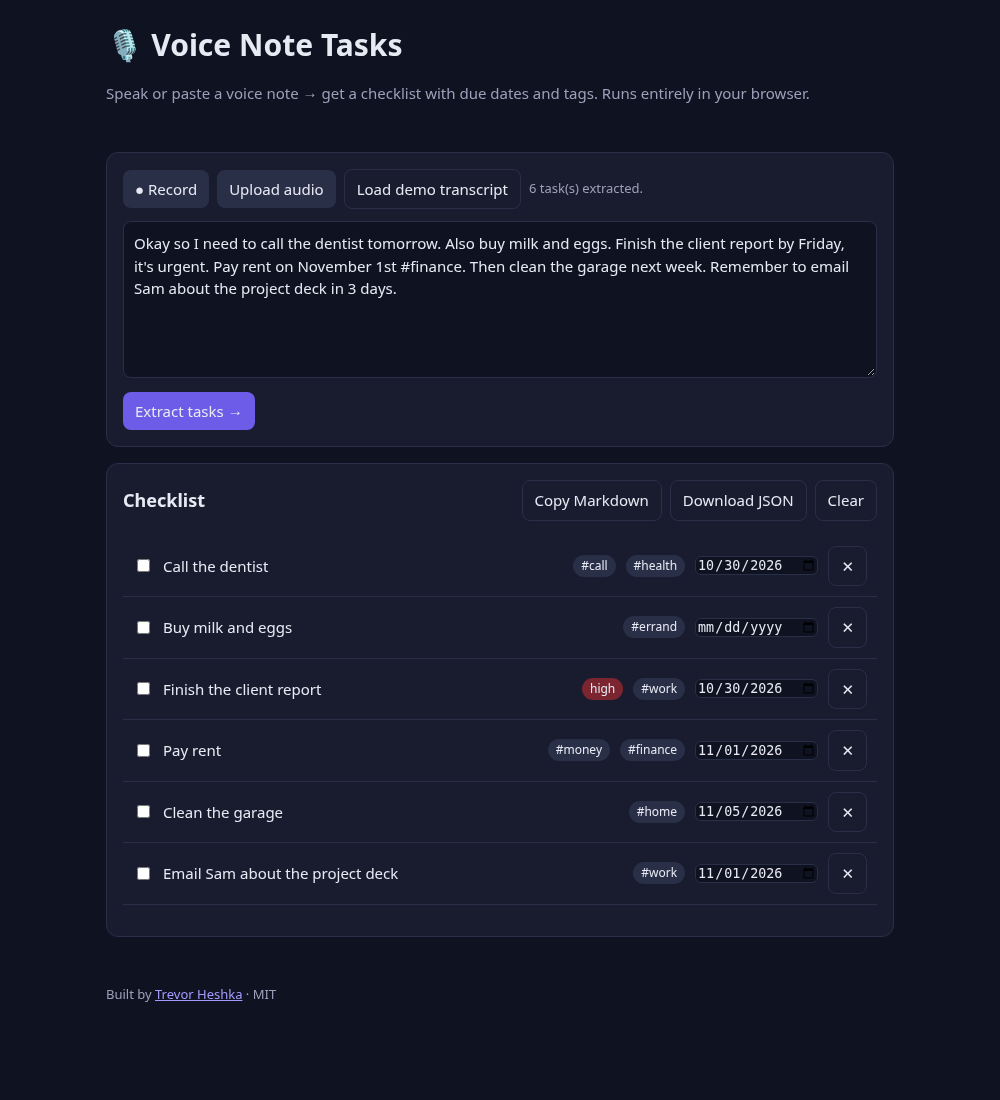
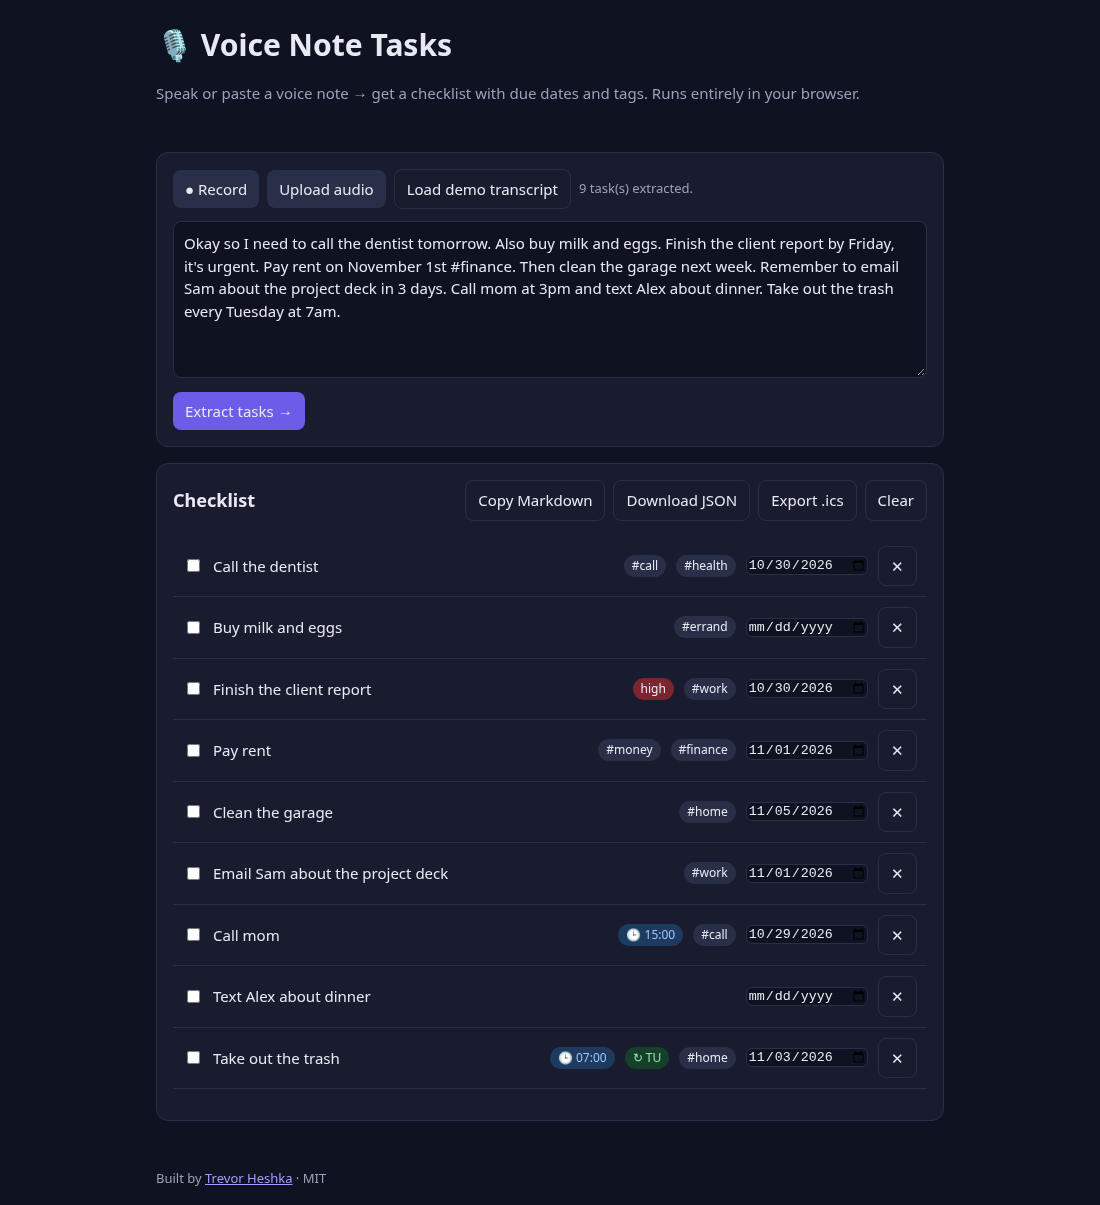
feat: Whisper upload, richer parsing, .ics export [skip ci]

diff --git a/parser.js b/parser.js
@@ -32,26 +32,72 @@
     return { due: null, match: null };
   }
 
+  const DAY_ABBR = ['SU','MO','TU','WE','TH','FR','SA'];
+  // Clock time: "at 3pm", "at 3:30 pm", "at 15:00", "at noon", "3pm". Returns "HH:MM".
+  function parseTime(text) {
+    let m;
+    if ((m = text.match(/\b(?:at )?(noon|midday|midnight)\b/i)))
+      return { time: /midnight/i.test(m[1]) ? '00:00' : '12:00', match: new RegExp(`\\b(at )?${m[1]}\\b`, 'i') };
+    if ((m = text.match(/\b(at |by )?(\d{1,2})(?::(\d{2}))?\s*([ap])\.?m\.?(?=\W|$)/i))) {
+      let h = +m[2] % 12; if (/p/i.test(m[4])) h += 12;
+      if (+m[2] > 12 || +m[3] > 59) return { time: null, match: null };
+      return { time: `${String(h).padStart(2,'0')}:${m[3] || '00'}`, match: m[0] };
+    }
+    if ((m = text.match(/\bat (\d{1,2}):(\d{2})\b/i)) && +m[1] < 24 && +m[2] < 60)
+      return { time: `${m[1].padStart(2,'0')}:${m[2]}`, match: m[0] };
+    return { time: null, match: null };
+  }
+
+  // Weekly recurrence: "every Monday", "every Tuesday and Thursday", "on Mondays", "weekly", "every week".
+  function parseRecurrence(text, now) {
+    const t = text.toLowerCase(); let m;
+    const dayRe = DAYS.join('|');
+    if ((m = t.match(new RegExp(`\\b(?:every|each) ((?:(?:${dayRe})(?:,? (?:and )?)?)+)`)))) {
+      const days = [...new Set(m[1].match(new RegExp(dayRe, 'g')))];
+      return { recurrence: { freq: 'WEEKLY', byday: days.map(d => DAY_ABBR[DAYS.indexOf(d)]) },
+        match: new RegExp(m[0].trim().replace(/,$/, ''), 'i'), days };
+    }
+    if ((m = t.match(new RegExp(`\\bon (${dayRe})s\\b`))))
+      return { recurrence: { freq: 'WEEKLY', byday: [DAY_ABBR[DAYS.indexOf(m[1])]] }, match: new RegExp(m[0], 'i'), days: [m[1]] };
+    if ((m = t.match(/\b(weekly|every week|once a week)\b/)))
+      return { recurrence: { freq: 'WEEKLY', byday: [DAY_ABBR[now.getDay()]] }, match: new RegExp(`\\b${m[0]}\\b`, 'i'), days: [] };
+    return { recurrence: null, match: null, days: [] };
+  }
+  const nextDay = (name, now) => iso(add(now, (DAYS.indexOf(name) - now.getDay() + 7) % 7));
+
+  // Split "call mom and email Bob" into two tasks, but keep "buy milk and eggs" together:
+  // only split on "and"/"," when the next word is an action verb.
+  const VERBS = 'call|phone|ring|text|email|e-mail|message|buy|get|pick up|drop off|return|pay|book|schedule|send|finish|write|clean|fix|repair|water|walk|feed|take out|do|check|review|submit|order|cancel|renew|wash|go to|visit|meet|remind|prepare|print|sign|update|file|mail|ship|clean up|vacuum|mow|cook';
+  const CLAUSE_SPLIT = new RegExp(`\\s*(?:,\\s*(?:and\\s+)?|\\s+and\\s+)(?=(?:also\\s+|then\\s+)?(?:${VERBS})\\b)`, 'i');
+
   function parseTranscript(text, now = new Date()) {
     const chunks = text
       .replace(/\b(also|and then|then|after that|plus)\b,?/gi, '.')
       .split(/[.;!?\n]+|,\s*(?=(?:i need to|need to|remember to|don't forget to)\b)/i)
+      .flatMap(s => s.split(CLAUSE_SPLIT))
       .map(s => s.trim()).filter(s => s.split(/\s+/).length >= 2);
     return chunks.map((raw, i) => {
       const tags = Object.keys(TAG_RULES).filter(k => TAG_RULES[k].test(raw));
       (raw.match(/#(\w+)/g) || []).forEach(h => tags.push(h.slice(1).toLowerCase()));
       const priority = /\b(urgent|asap|important|critical)\b/i.test(raw) ? 'high' : 'normal';
-      const { due, match } = parseDue(raw, now);
-      let title = raw.replace(match || /^$/, '')
+      const rec = parseRecurrence(raw, now);
+      let rest = raw.replace(rec.match || /^$/, '');
+      const tm = parseTime(rest);
+      rest = rest.replace(tm.match || /^$/, '');
+      let { due, match } = parseDue(rest, now);
+      if (!due && rec.days.length) due = rec.days.map(d => nextDay(d, now)).sort()[0];
+      if (!due && rec.recurrence) due = iso(now);
+      if (!due && tm.time) due = iso(now);
+      let title = rest.replace(match || /^$/, '')
         .replace(/#\w+/g, '')
         .replace(/^((ok(ay)?|so|um+|uh+|well)\b,?\s*)+/i, '')
         .replace(/^(i (need|have|want) to|i've got to|i gotta|need to|remember to|don't forget to|make sure to|i should|we should)\s+/i, '')
         .replace(/,?\s*(it's |this is )?(urgent(ly)?|asap|important)\b,?/gi, '').replace(/\s+,/g, ',')
         .replace(/\s{2,}/g, ' ').replace(/[\s,]+$/,'').trim();
       title = title.charAt(0).toUpperCase() + title.slice(1);
-      return { id: i + 1, title, due, tags: [...new Set(tags)], priority, done: false };
+      return { id: i + 1, title, due, time: tm.time, recurrence: rec.recurrence, tags: [...new Set(tags)], priority, done: false };
     }).filter(t => t.title.length > 1);
   }
-  const api = { parseTranscript, parseDue };
+  const api = { parseTranscript, parseDue, parseTime, parseRecurrence };
   if (typeof module !== 'undefined') module.exports = api; else root.VNT = api;
 })(this);

diff --git a/app.js b/app.js
@@ -1,5 +1,5 @@
 const $ = id => document.getElementById(id);
-const DEMO = "Okay so I need to call the dentist tomorrow. Also buy milk and eggs. Finish the client report by Friday, it's urgent. Pay rent on November 1st #finance. Then clean the garage next week. Remember to email Sam about the project deck in 3 days.";
+const DEMO = "Okay so I need to call the dentist tomorrow. Also buy milk and eggs. Finish the client report by Friday, it's urgent. Pay rent on November 1st #finance. Then clean the garage next week. Remember to email Sam about the project deck in 3 days. Call mom at 3pm and text Alex about dinner. Take out the trash every Tuesday at 7am.";
 let tasks = JSON.parse(localStorage.getItem('vnt-tasks') || '[]');
 const save = () => { localStorage.setItem('vnt-tasks', JSON.stringify(tasks)); render(); };
 const status = s => $('status').textContent = s;
@@ -10,6 +10,8 @@ function render() {
     const li = document.createElement('li'); if (t.done) li.className = 'done';
     li.innerHTML = `<input type="checkbox" ${t.done ? 'checked' : ''}><span class="t" contenteditable></span>
       ${t.priority === 'high' ? '<span class="chip high">high</span>' : ''}
+      ${t.time ? `<span class="chip time">🕒 ${t.time}</span>` : ''}
+      ${t.recurrence ? `<span class="chip rec" title="Repeats weekly">↻ ${(t.recurrence.byday || []).join('/') || 'weekly'}</span>` : ''}
       ${t.tags.map(g => `<span class="chip">#${g}</span>`).join('')}
       <input type="date" value="${t.due || ''}"><button class="ghost" title="Delete">✕</button>`;
     li.querySelector('.t').textContent = t.title;
@@ -42,12 +44,28 @@ $('rec').onclick = async () => {
   rec.start(); $('rec').classList.add('on'); $('rec').textContent = '■ Stop'; status('Listening…');
 };
 
-// Uploaded audio: browsers can't transcribe a file offline without a model, so play it
-// and let the user dictate/paste. (See README for an optional Whisper route.)
+// Uploaded audio: play it; optionally transcribe offline with Whisper (lazy-loaded, see whisper.js).
+let upload = null;
 $('file').onchange = e => {
-  const f = e.target.files[0]; if (!f) return;
-  $('player').src = URL.createObjectURL(f); $('player').hidden = false;
-  status(`Loaded ${f.name}. Play it and press Record (speaker → mic), or paste its transcript.`);
+  const f = e.target.files[0]; if (!f) return; upload = f;
+  $('player').src = URL.createObjectURL(f); $('player').hidden = false; $('whisper').hidden = false;
+  status(`Loaded ${f.name}. Click ✨ Transcribe with Whisper (one-time ~40 MB download), or paste its transcript.`);
+};
+$('whisper').onclick = async () => {
+  if (!upload) return;
+  const btn = $('whisper'), box = $('wbox'), prog = $('wprog'), txt = $('wtext');
+  btn.disabled = true; box.hidden = false; prog.removeAttribute('value');
+  const onProgress = p => { txt.textContent = p.text; if (p.pct != null) prog.value = p.pct; else prog.removeAttribute('value'); };
+  try {
+    const mod = await import('./whisper.js');
+    const text = await mod.transcribe(upload, onProgress);
+    $('transcript').value = ($('transcript').value ? $('transcript').value + ' ' : '') + text;
+    status(text ? 'Whisper transcript ready — review it, then Extract tasks.' : 'Whisper heard nothing in that file.');
+    box.hidden = true;
+  } catch (err) {
+    txt.textContent = 'Whisper unavailable (offline or blocked?): ' + (err.message || err) + ' — paste the transcript instead.';
+    prog.value = 0;
+  } finally { btn.disabled = false; }
 };
 $('demo').onclick = () => { $('transcript').value = DEMO; status('Demo transcript loaded.'); };
 $('parse').onclick = () => {
@@ -58,8 +76,14 @@ $('parse').onclick = () => {
 };
 $('clear').onclick = () => { tasks = []; save(); };
 $('copy').onclick = () => {
-  const md = tasks.map(t => `- [${t.done ? 'x' : ' '}] ${t.title}${t.due ? ` (due ${t.due})` : ''}${t.tags.map(g => ' #' + g).join('')}`).join('\n');
+  const md = tasks.map(t => `- [${t.done ? 'x' : ' '}] ${t.title}${t.due ? ` (due ${t.due}${t.time ? ' ' + t.time : ''})` : ''}${t.recurrence ? ' (weekly)' : ''}${t.tags.map(g => ' #' + g).join('')}`).join('\n');
   navigator.clipboard.writeText(md).then(() => status('Copied Markdown.'));
+};
+$('ics').onclick = () => {
+  const n = tasks.filter(t => t.due).length;
+  if (!n) { status('No tasks with a due date to export.'); return; }
+  const a = document.createElement('a'); a.href = URL.createObjectURL(new Blob([VNTICS.toICS(tasks)], { type: 'text/calendar' }));
+  a.download = 'tasks.ics'; a.click(); status(`Exported ${n} event(s) to tasks.ics.`);
 };
 $('json').onclick = () => {
   const a = document.createElement('a'); a.href = URL.createObjectURL(new Blob([JSON.stringify(tasks, null, 2)], { type: 'application/json' }));

diff --git a/ics.js b/ics.js
@@ -1,0 +1,37 @@
+// Tasks -> iCalendar (.ics, RFC 5545). Pure function, no deps. Works in browser and Node.
+(function (root) {
+  const esc = s => String(s).replace(/\\/g, '\\\\').replace(/;/g, '\\;').replace(/,/g, '\\,').replace(/\r?\n/g, '\\n');
+  // Fold lines longer than 75 octets (approximated by chars) per RFC 5545 §3.1.
+  const fold = l => { const out = []; while (l.length > 75) { out.push(l.slice(0, 75)); l = ' ' + l.slice(75); } out.push(l); return out.join('\r\n'); };
+  const pad = n => String(n).padStart(2, '0');
+  const stamp = d => `${d.getUTCFullYear()}${pad(d.getUTCMonth()+1)}${pad(d.getUTCDate())}T${pad(d.getUTCHours())}${pad(d.getUTCMinutes())}${pad(d.getUTCSeconds())}Z`;
+  const nextDate = ymd => { const [y, m, d] = ymd.split('-').map(Number); const x = new Date(Date.UTC(y, m - 1, d + 1));
+    return `${x.getUTCFullYear()}${pad(x.getUTCMonth()+1)}${pad(x.getUTCDate())}`; };
+
+  /** Only tasks with a due date become events. Timed tasks are 30-min floating-time events; others are all-day. */
+  function toICS(tasks, { now = new Date(), durationMin = 30, uidDomain = 'voice-note-tasks' } = {}) {
+    const lines = ['BEGIN:VCALENDAR', 'VERSION:2.0', 'PRODID:-//Trevor Heshka//Voice Note Tasks//EN', 'CALSCALE:GREGORIAN'];
+    tasks.filter(t => t.due).forEach(t => {
+      const date = t.due.replace(/-/g, '');
+      lines.push('BEGIN:VEVENT', `UID:${t.id}-${date}-${String(t.title).toLowerCase().replace(/[^a-z0-9]+/g, '-').slice(0, 40)}@${uidDomain}`, `DTSTAMP:${stamp(now)}`);
+      if (t.time) {
+        const [h, m] = t.time.split(':').map(Number); const end = h * 60 + m + durationMin;
+        lines.push(`DTSTART:${date}T${pad(h)}${pad(m)}00`);
+        lines.push(end < 1440 ? `DTEND:${date}T${pad(Math.floor(end / 60))}${pad(end % 60)}00` : `DURATION:PT${durationMin}M`);
+      } else {
+        lines.push(`DTSTART;VALUE=DATE:${date}`, `DTEND;VALUE=DATE:${nextDate(t.due)}`);
+      }
+      if (t.recurrence && t.recurrence.freq === 'WEEKLY')
+        lines.push(`RRULE:FREQ=WEEKLY${t.recurrence.byday && t.recurrence.byday.length ? ';BYDAY=' + t.recurrence.byday.join(',') : ''}`);
+      lines.push(`SUMMARY:${esc(t.title)}`);
+      if (t.tags && t.tags.length) lines.push(`CATEGORIES:${t.tags.map(esc).join(',')}`);
+      if (t.priority === 'high') lines.push('PRIORITY:1');
+      if (t.done) lines.push('STATUS:CANCELLED');
+      lines.push('END:VEVENT');
+    });
+    lines.push('END:VCALENDAR');
+    return lines.map(fold).join('\r\n') + '\r\n';
+  }
+  const api = { toICS };
+  if (typeof module !== 'undefined') module.exports = api; else root.VNTICS = api;
+})(this);

diff --git a/test.js b/test.js
@@ -9,3 +9,33 @@ assert.equal(t[3].due, '2026-11-01'); assert.ok(t[3].tags.includes('finance'));
 console.log('ok');
 assert.equal(t[0].title, 'Call the dentist'); assert.equal(t[2].title, 'Finish the client report');
 assert.equal(parseTranscript('Then clean the garage next week', now)[0].due, '2026-11-05');
+
+// --- multi-clause, time, recurrence ---
+const { parseTime } = require('./parser');
+const mc = parseTranscript('Call mom at 3pm and email Bob about the invoice tomorrow', now);
+assert.equal(mc.length, 2);
+assert.deepEqual([mc[0].title, mc[0].time, mc[0].due], ['Call mom', '15:00', '2026-10-29']);
+assert.deepEqual([mc[1].title, mc[1].due], ['Email Bob about the invoice', '2026-10-30']);
+assert.equal(parseTranscript('Buy milk and eggs', now).length, 1);
+assert.equal(parseTime('at 3:30 pm').time, '15:30'); assert.equal(parseTime('at noon').time, '12:00');
+assert.equal(parseTime('at 12am').time, '00:00'); assert.equal(parseTime('at 17:45').time, '17:45');
+assert.equal(parseTime('buy 3 apples').time, null);
+const rec = parseTranscript('Take out the trash every Tuesday and Friday at 7:30 am', now)[0];
+assert.equal(rec.title, 'Take out the trash'); assert.equal(rec.time, '07:30');
+assert.deepEqual(rec.recurrence, { freq: 'WEEKLY', byday: ['TU', 'FR'] }); assert.equal(rec.due, '2026-10-30');
+const w = parseTranscript('Water the plants on Mondays', now)[0];
+assert.deepEqual(w.recurrence.byday, ['MO']); assert.equal(w.due, '2026-11-02'); assert.equal(w.title, 'Water the plants');
+assert.equal(parseTranscript('Go to the gym weekly', now)[0].recurrence.freq, 'WEEKLY');
+assert.equal(t[1].time, null); assert.equal(t[1].recurrence, null);
+
+// --- .ics export ---
+const { toICS } = require('./ics');
+const ics = toICS([...mc, rec, { id: 9, title: 'No date', due: null, tags: [] }, { ...t[2] }], { now: new Date(Date.UTC(2026, 9, 29, 12)) });
+assert.ok(ics.startsWith('BEGIN:VCALENDAR\r\n') && ics.endsWith('END:VCALENDAR\r\n'));
+assert.equal((ics.match(/BEGIN:VEVENT/g) || []).length, 4);
+assert.ok(ics.includes('DTSTART:20261029T150000\r\nDTEND:20261029T153000'));
+assert.ok(ics.includes('DTSTART;VALUE=DATE:20261030\r\nDTEND;VALUE=DATE:20261031'));
+assert.ok(ics.includes('RRULE:FREQ=WEEKLY;BYDAY=TU,FR'));
+assert.ok(ics.includes('PRIORITY:1')); assert.ok(!ics.includes('No date'));
+assert.ok(toICS([{ id: 1, title: 'a, b; c', due: '2026-10-29', tags: [] }]).includes('SUMMARY:a\\, b\\; c'));
+console.log('all tests ok');

diff --git a/whisper.js b/whisper.js
@@ -1,0 +1,49 @@
+// Optional offline transcription of uploaded audio with Whisper (transformers.js, whisper-tiny.en).
+// Nothing here loads until the user clicks "Transcribe with Whisper": the library (~1 MB) comes from a CDN
+// and the model (~40 MB quantized) is downloaded once and cached by the browser. The rest of the app never needs it.
+const LIB = 'https://cdn.jsdelivr.net/npm/@huggingface/transformers@3';
+const MODEL = 'Xenova/whisper-tiny.en';
+let pipePromise = null;
+
+export function isLoaded() { return pipePromise !== null; }
+
+async function getPipe(onProgress) {
+  if (!pipePromise) {
+    pipePromise = (async () => {
+      onProgress({ stage: 'lib', text: 'Loading transformers.js…' });
+      const { pipeline } = await import(LIB);
+      const files = {};
+      return pipeline('automatic-speech-recognition', MODEL, {
+        dtype: 'q8',
+        progress_callback: p => {
+          if (p.status === 'progress' && p.total) {
+            files[p.file] = [p.loaded, p.total];
+            const [l, t] = Object.values(files).reduce((a, [x, y]) => [a[0] + x, a[1] + y], [0, 0]);
+            onProgress({ stage: 'model', pct: Math.round(100 * l / t), text: `Downloading Whisper model… ${Math.round(100 * l / t)}% (${(l / 1e6).toFixed(1)} / ${(t / 1e6).toFixed(1)} MB)` });
+          }
+        },
+      });
+    })().catch(e => { pipePromise = null; throw e; });
+  }
+  return pipePromise;
+}
+
+// Decode any browser-supported audio file to 16 kHz mono Float32Array (what Whisper expects).
+async function decode(file) {
+  const buf = await file.arrayBuffer();
+  const ctx = new (window.AudioContext || window.webkitAudioContext)({ sampleRate: 16000 });
+  try { const audio = await ctx.decodeAudioData(buf);
+    if (audio.numberOfChannels === 1) return audio.getChannelData(0);
+    const a = audio.getChannelData(0), b = audio.getChannelData(1), out = new Float32Array(a.length);
+    for (let i = 0; i < a.length; i++) out[i] = (a[i] + b[i]) / 2; return out;
+  } finally { ctx.close(); }
+}
+
+export async function transcribe(file, onProgress = () => {}) {
+  const asr = await getPipe(onProgress);
+  onProgress({ stage: 'decode', text: 'Decoding audio…' });
+  const audio = await decode(file);
+  onProgress({ stage: 'run', text: `Transcribing ${(audio.length / 16000).toFixed(0)} s of audio…` });
+  const out = await asr(audio, { chunk_length_s: 30, stride_length_s: 5 });
+  return (out.text || '').trim();
+}

diff --git a/index.html b/index.html
@@ -6,16 +6,18 @@
   <div class="row">
     <button id="rec">● Record</button>
     <label class="btn">Upload audio<input id="file" type="file" accept="audio/*" hidden></label>
+    <button id="whisper" class="ghost" hidden title="Optional: downloads ~40 MB model once, then runs offline in your browser">✨ Transcribe with Whisper</button>
     <button id="demo" class="ghost">Load demo transcript</button>
     <span id="status"></span>
   </div>
   <audio id="player" controls hidden></audio>
+  <div id="wbox" hidden><progress id="wprog" max="100"></progress> <span id="wtext" class="muted"></span></div>
   <textarea id="transcript" rows="6" placeholder="Transcript appears here — or paste one (demo mode, no mic or API key needed)."></textarea>
   <button id="parse" class="primary">Extract tasks →</button>
 </section>
 <section class="card"><div class="row"><h2>Checklist</h2><span class="spacer"></span>
-  <button id="copy" class="ghost">Copy Markdown</button><button id="json" class="ghost">Download JSON</button><button id="clear" class="ghost">Clear</button></div>
+  <button id="copy" class="ghost">Copy Markdown</button><button id="json" class="ghost">Download JSON</button><button id="ics" class="ghost" title="Tasks with a due date become calendar events">Export .ics</button><button id="clear" class="ghost">Clear</button></div>
   <ul id="tasks"></ul><p id="empty" class="muted">No tasks yet.</p></section>
 </main>
 <footer>Built by <a href="https://trevorheshka.com">Trevor Heshka</a> · MIT</footer>
-<script src="parser.js"></script><script src="app.js"></script></body></html>
+<script src="parser.js"></script><script src="ics.js"></script><script src="app.js"></script></body></html>

diff --git a/style.css b/style.css
@@ -9,3 +9,5 @@ audio{width:100%;margin-top:10px}ul{list-style:none;padding:0}li{display:flex;ga
 li.done .t{text-decoration:line-through;color:#9aa0b8}.t{flex:1}.chip{font-size:12px;padding:2px 8px;border-radius:99px;background:#2a2f48}
 .due{background:#1e5f4a}.high{background:#7a2530}input[type=date]{background:#0f1220;color:inherit;border:1px solid #2a2f48;border-radius:6px}
 #status{color:#9aa0b8;font-size:13px}footer{color:#9aa0b8;font-size:13px}a{color:#a29bfe}
+.chip.time{background:#1e3a5f;color:#9cc7ff}.chip.rec{background:#17402b;color:#8ee6b0}
+#wbox:not([hidden]){display:flex;align-items:center;gap:.5rem;margin:.5rem 0}#wbox progress{width:12rem}

diff --git a/README.md b/README.md
@@ -6,17 +6,25 @@ Record (or paste) a voice note → transcript → structured checklist with **du
 
 ## Features
 - **Record** with the browser's Web Speech API (`SpeechRecognition`) — live transcript, plus the audio is kept for playback (MediaRecorder).
-- **Upload audio** for playback; dictate or paste its transcript.
+- **Upload audio** for playback, then optionally **✨ Transcribe with Whisper** — fully in-browser speech-to-text (see below). Or dictate/paste its transcript.
 - **Demo mode** — paste any transcript (or click *Load demo transcript*, or open `/?demo`). Works with no mic and no keys.
-- Parser extracts tasks and detects due dates (`today`, `tomorrow`, `Friday`, `next Monday`, `next week`, `in 3 days`, `November 1st`), auto-tags (`work`, `errand`, `call`, `home`, `health`, `money`) plus `#hashtags`, and `urgent/asap` → high priority.
-- Edit titles inline, change dates, check off, delete. Saved to `localStorage`. Export as Markdown or JSON.
+- Parser extracts tasks and detects due dates (`today`, `tomorrow`, `Friday`, `next Monday`, `next week`, `in 3 days`, `November 1st`), **times** (`at 3pm`, `at 3:30 pm`, `at 17:45`, `at noon`), **weekly recurrence** (`every Monday`, `every Tuesday and Friday`, `on Mondays`, `weekly`), and splits **multi-clause** sentences (`call mom at 3pm and email Bob tomorrow` → 2 tasks, while `buy milk and eggs` stays 1). Auto-tags (`work`, `errand`, `call`, `home`, `health`, `money`) plus `#hashtags`, and `urgent/asap` → high priority.
+- Edit titles inline, change dates, check off, delete. Saved to `localStorage`. Export as Markdown, JSON, or **`.ics` calendar** (dated tasks → events; timed tasks get a 30-min slot, others are all-day; recurring tasks get `RRULE:FREQ=WEEKLY;BYDAY=…`; urgent → `PRIORITY:1`). Import into Google Calendar, Apple Calendar or Outlook.
 
 ## Prerequisites
 - A modern browser. Live recording needs Chrome, Edge or Safari (`SpeechRecognition`); Firefox works in paste/demo mode.
 - Any static file server (mic access requires `localhost` or HTTPS). Node.js ≥ 18 *or* Python 3.
 
 ## Dependencies
-**None at runtime** — plain HTML/CSS/JS. `npm start` uses `npx serve` (fetched on demand); tests use only Node's built-in `assert`.
+**None required at runtime** — plain HTML/CSS/JS; record, paste and demo modes work fully offline.
+
+**Optional (lazy-loaded, only when you click ✨ Transcribe with Whisper):**
+| What | Size | Source |
+|---|---|---|
+| [`@huggingface/transformers`](https://github.com/huggingface/transformers.js) v3 (ES module) | ~1 MB JS + ONNX Runtime WASM | `cdn.jsdelivr.net` |
+| [`Xenova/whisper-tiny.en`](https://huggingface.co/Xenova/whisper-tiny.en) (q8 quantized) | ~40 MB, downloaded once then cached by the browser | `huggingface.co` |
+
+A progress bar shows the one-time download; after that transcription runs locally (no audio leaves your machine). If you're offline or the CDN is blocked, the app shows an error and paste/demo still work. English-only model; to change it edit `MODEL` in `whisper.js` (e.g. `Xenova/whisper-base`). `npm start` uses `npx serve` (fetched on demand); tests use only Node's built-in `assert`.
 
 ## Run
 ```bash
@@ -32,16 +40,15 @@ Open http://localhost:5173/?demo to see it pre-filled.
 | File | Purpose |
 |---|---|
 | `parser.js` | Pure `parseTranscript(text, now)` → `[{id,title,due,tags,priority,done}]` (browser + Node) |
+| `ics.js` | Pure `toICS(tasks)` → RFC 5545 calendar text (browser + Node) |
+| `whisper.js` | Optional lazy-loaded Whisper transcription of uploaded files (ES module) |
 | `app.js` | UI, speech recognition, recording, storage, export |
-| `test.js` | Parser tests |
-
-## Optional: offline Whisper
-Not bundled, to keep zero dependencies. To transcribe uploaded files offline you could add [`@xenova/transformers`](https://github.com/xenova/transformers.js) (`Xenova/whisper-tiny.en`, ~40 MB download on first use) and set the textarea to its output — the parser is unchanged.
+| `test.js` | Parser + `.ics` tests |
 
 ## Screenshots
-| Empty | Demo |
-|---|---|
-| ![](docs/empty-state.png) | ![](docs/demo-checklist.png) |
+| Empty | Demo | Upload → Whisper |
+|---|---|---|
+| ![](docs/empty-state.png) | ![](docs/demo-checklist.png) | ![](docs/upload-whisper.png) |
 
 Screenshots are real headless Chrome captures of this app.
 
